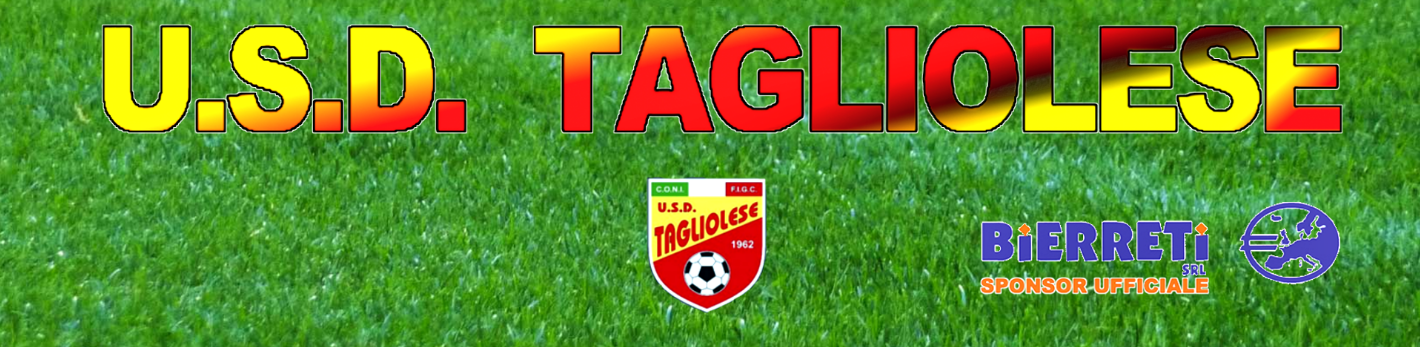
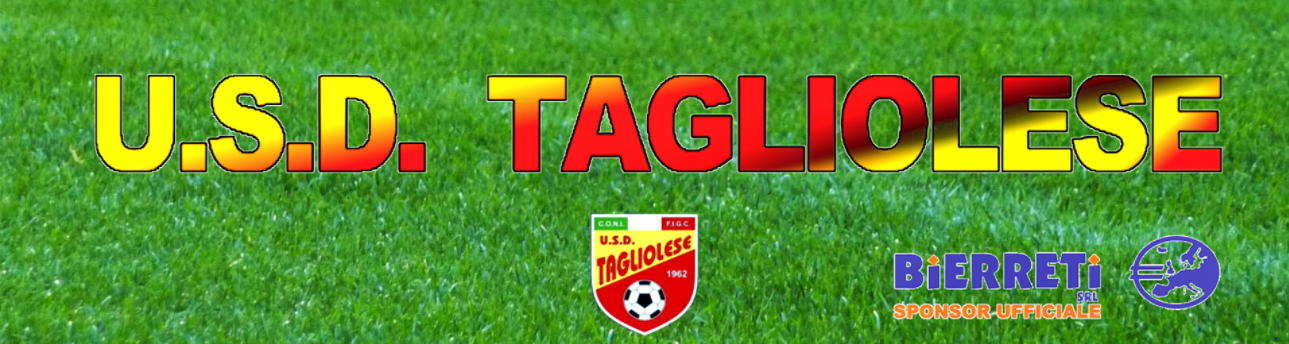
sauvegarde 27-04-2021

diff --git a/Accueil.html b/Accueil.html
@@ -13,7 +13,7 @@
        <img class=" img-head w-100" src="/images/image header.PNG" alt="tagliolese">  
       </div>
       <div class="col-12">
-      <nav class="navbar navbar-expand navbar-dark bg-dark">
+      <nav class="navbar navbar-expand-lg navbar-dark bg-dark text-center fixed-top container-fluid">
         <div class="collapse navbar-collapse">
           <ul class="navbar-nav">
             <li class="nav-item active pl-3 pr-3"><a class="nav-link" href="#">Accueil</a></li>
@@ -21,6 +21,7 @@
             <li class="nav-item pl-3 pr-3"><a class="nav-link" href="#">Premiere équipe</a></li>
             <li class="nav-item pl-3 pr-3"><a class="nav-link" href="#">Foto gallery</a></li>
             <li class="nav-item pl-3 pr-3"><a class="nav-link" href="#">Où sommes nous</a></li>         
+            <li class="nav-item pl-3 pr-3"><a class="nav-link" href="#">Contactez-nous</a></li>         
           </ul>
         </div>
     </nav>
@@ -28,47 +29,48 @@
      </header>
      <section>
          <h1 class="title">DERNIERES EVENEMENTS</h1>
-         <div class="row">
-             <div class="col-4">
+         <div class="row d-flex justify-content-center">
+             <div class="col-3">
                 <div class="card">
                     <img src="/images/preparation du match.PNG" alt="oahu" class="card-img-top">
                     <div class="card-body">
                      <h5 class="card-title">Victoire de nos joueurs! </h5>
                      <p class="card-text">c'est toujours tout simplement un exemple</p>
-                     <button class="btn btn-primary" data-toggle="modal" data-target="#email">cliquez ici</button> 
+                     <button class="btn" data-toggle="modal" data-target="#email">En savoir plus</button> 
                    </div>
                    </div>
              </div>
-             <div class="col-4">
+             <div class="col-3">
                 <div class="card">
                     <img src="/images/Tournoi de taglio di po.PNG" alt="oahu" class="card-img-top">
                     <div class="card-body">
                      <h5 class="card-title">Le tournoi de Taglio di po</h5>
                      <p class="card-text">c'est toujours tout simplement un exemple</p>
-                     <button class="btn btn-primary" data-toggle="modal" data-target="#email">cliquez ici</button> 
+                     <button class="btn" data-toggle="modal" data-target="#email">En savoir plus</button> 
                    </div>
                    </div>
              </div>
-             <div class="col-4">
+             <div class="col-3">
                 <div class="card">
                     <img src="/images/conference aprés match.PNG" alt="oahu" class="card-img-top">
                     <div class="card-body">
                      <h5 class="card-title">Conference aprés match</h5>
                      <p class="card-text">c'est toujours tout simplement un exemple</p>
-                     <button class="btn btn-primary" data-toggle="modal" data-target="#email">cliquez ici</button> 
+                     <button class="btn" data-toggle="modal" data-target="#email">En savoir plus</button> 
                    </div>
                    </div>
              </div>
          </div>
+         <h1 class="title gallery">FOTO GALLERY</h1>
          <div class="row">
-           <div class="foot col-12">
-             <h1>FOTO GALLERY</h1>
+           <div class="col-12 soccer">
+             <a href="#"><img class="foot" src="/images/foot.PNG" alt="foot"></a>
            </div>
          </div>
          <div class="row">
            <div class="col-4">
             <header class="title-resultats">
-              <h3 class="title">RESULTATS SEMAINE 31</h3>
+              <h1 class="title">RESULTATS SEMAINE 4</h1>
             </header>
             <section class="resuslats">
               <article class="score">
@@ -110,11 +112,11 @@
            </div>
            <div class="col-8">
             <header class="title-resultats">
-              <h3 class="title">CLASSEMENT</h3>
+              <h1 class="title">CLASSEMENT</h1>
             </header>
             <table class="table table-striped">
             <thead>
-              <tr class="bg-primary text-white">
+              <tr class="bg-dark text-white">
                 <th scope="col"></th>
                 <th scope="col">EQUIPE</th>
                 <th scope="col">PT</th>
@@ -128,7 +130,7 @@
               </tr>
             </thead>
             <tbody>
-              <tr>
+              <tr class="table-primary">
                 <th><img class="equipe" src="/images/frosinone.PNG" alt="frosinone"></th>
                 <td>Frosinone</td>
                 <td>6</td>
@@ -140,7 +142,7 @@
                 <td>1</td>
                 <td>2</td>
               </tr>
-              <tr>
+              <tr class="table-success">
                 <th><img class="equipe" src="/images/grosseto.PNG" alt="grosseto"></th>
                 <td>Grosseto</td>
                 <td>4</td>
@@ -152,7 +154,7 @@
                 <td>0</td>
                 <td>3</td>
               </tr>
-              <tr>
+              <tr class="table-success"> 
                 <th><img class="equipe" src="/images/logo.PNG" alt="tagliolese"></th>
                 <td>Tagliolese</td>
                 <td>4</td>
@@ -175,6 +177,78 @@
                 <td>3</td>
                 <td>0</td>
                 <td>3</td>
+              </tr>
+              <tr>
+                <th><img class="equipe" src="/images/padova.PNG" alt="padova"></th>
+                <td>Padova</td>
+                <td>4</td>
+                <td>2</td>
+                <td>1</td>
+                <td>0</td>
+                <td>0</td>
+                <td>2</td>
+                <td>0</td>
+                <td>1</td>
+              </tr>
+              <tr>
+                <th><img class="equipe" src="/images/piacenza.PNG" alt="piacenza"></th>
+                <td>Piacenza</td>
+                <td>2</td>
+                <td>1</td>
+                <td>1</td>
+                <td>0</td>
+                <td>0</td>
+                <td>2</td>
+                <td>0</td>
+                <td>1</td>
+              </tr>
+              <tr class="table-warning">
+                <th><img class="equipe" src="/images/reggina.PNG" alt="reggina"></th>
+                <td>Reggina</td>
+                <td>2</td>
+                <td>1</td>
+                <td>1</td>
+                <td>0</td>
+                <td>0</td>
+                <td>2</td>
+                <td>0</td>
+                <td>0</td>
+              </tr>
+              <tr class="table-warning">
+                <th><img class="equipe" src="/images/triestina.PNG" alt="triestina"></th>
+                <td>Triestina</td>
+                <td>1</td>
+                <td>2</td>
+                <td>1</td>
+                <td>0</td>
+                <td>0</td>
+                <td>2</td>
+                <td>0</td>
+                <td>-1</td>
+              </tr>
+              <tr class="table-danger">
+                <th><img class="equipe" src="/images/crotone.PNG" alt="crotone"></th>
+                <td>Crotone</td>
+                <td>1</td>
+                <td>0</td>
+                <td>2</td>
+                <td>0</td>
+                <td>0</td>
+                <td>2</td>
+                <td>0</td>
+                <td>-2</td>
+              </tr>
+              <tr class="table-danger">
+                <th><img class="equipe" src="/images/ascoli.PNG" alt="ascoli"></th>
+                <td>Ascoli</td>
+                <td>0</td>
+                <td>2</td>
+                <td>2</td>
+                <td>0</td>
+                <td>0</td>
+                <td>1</td>
+                <td>5</td>
+                <td>-4</td>
               </tr>
             </tbody>
           </table>

diff --git a/style.css b/style.css
@@ -1,5 +1,4 @@
-@charset "UTF-8";
-.title {
+.title, .gallery {
   margin-top: 20px;
   font-family: -apple-system, BlinkMacSystemFont, 'Segoe UI', Roboto, Oxygen, Ubuntu, Cantarell, 'Open Sans', 'Helvetica Neue', sans-serif;
   color: white;
@@ -11,7 +10,7 @@ header {
 }
 
 .img-head {
-  height: 270px;
+  height: 290px;
 }
 
 .title {
@@ -27,6 +26,11 @@ header {
           align-items: center;
 }
 
+header .navbar {
+  height: 50px;
+  background: rgba(0, 0, 0, 0.6) !important;
+}
+
 .card {
   border-radius: 10px;
 }
@@ -36,13 +40,12 @@ header {
 }
 
 .foot {
-  margin-top: 30px;
   height: 400px;
-  width: 100ù;
+  width: 100%;
   border-radius: 100px;
   background-image: url(/images/foot.PNG);
-  background-repeat: no-repeat;
-  background-position: 100% 100%;
+  background-size: 100%;
+  background-repeat: no repeat;
 }
 
 .equipe {
@@ -77,5 +80,26 @@ article.score > p {
 
 p > b {
   margin-left: 15px;
+}
+
+ul.navbar-nav > li > a:hover {
+  background-color: black;
+}
+
+.gallery {
+  border-top: #dad4d4 solid 1px;
+  margin-top: 30px;
+}
+
+.soccer {
+  border-bottom: #dad4d4 solid 1px;
+  padding-bottom: 40px;
+}
+
+.btn {
+  -webkit-transition: color .15s ease-in-out,background-color .15s ease-in-out,border-color .15s ease-in-out,-webkit-box-shadow .15s ease-in-out;
+  transition: color .15s ease-in-out,background-color .15s ease-in-out,border-color .15s ease-in-out,-webkit-box-shadow .15s ease-in-out;
+  transition: color .15s ease-in-out,background-color .15s ease-in-out,border-color .15s ease-in-out,box-shadow .15s ease-in-out;
+  transition: color .15s ease-in-out,background-color .15s ease-in-out,border-color .15s ease-in-out,box-shadow .15s ease-in-out,-webkit-box-shadow .15s ease-in-out;
 }
 /*# sourceMappingURL=style.css.map */

diff --git a/style.scss b/style.scss
@@ -8,7 +8,7 @@ header {
     margin-top: 0;
 }
 .img-head {
-    height: 270px;
+    height: 290px;
 }
 .title {
     height: 100px;
@@ -17,8 +17,9 @@ header {
     align-items: center;
     @extend %title
 }
-body {
-    
+header .navbar {
+    height: 50px;
+    background:rgba(0, 0, 0, 0.6) !important
 }
 .card {
     border-radius: 10px;
@@ -27,13 +28,12 @@ body {
     border-radius: 10px;
 }
 .foot {
-    margin-top: 30px;
     height: 400px;
-    width: 100ù;
+    width: 100%;
     border-radius: 100px;
     background-image:url(/images/foot.PNG) ;
-    background-repeat: no-repeat;
-    background-position: 100% 100%;
+    background-size: 100%;
+    background-repeat:no repeat;
 }
 .equipe {
     height: 36px;
@@ -55,4 +55,18 @@ article.score > p {
 p > b {
     margin-left: 15px;
 }
-
+ul.navbar-nav > li > a:hover {
+    background-color: black;
+} 
+.gallery {
+    @extend %title;
+    border-top:rgb(218, 212, 212) solid 1px;
+    margin-top: 30px;
+}
+.soccer {
+    border-bottom:rgb(218, 212, 212) solid 1px; ;
+    padding-bottom: 40px;
+}
+.btn {
+    transition: color .15s ease-in-out,background-color .15s ease-in-out,border-color .15s ease-in-out,box-shadow .15s ease-in-out;
+}
